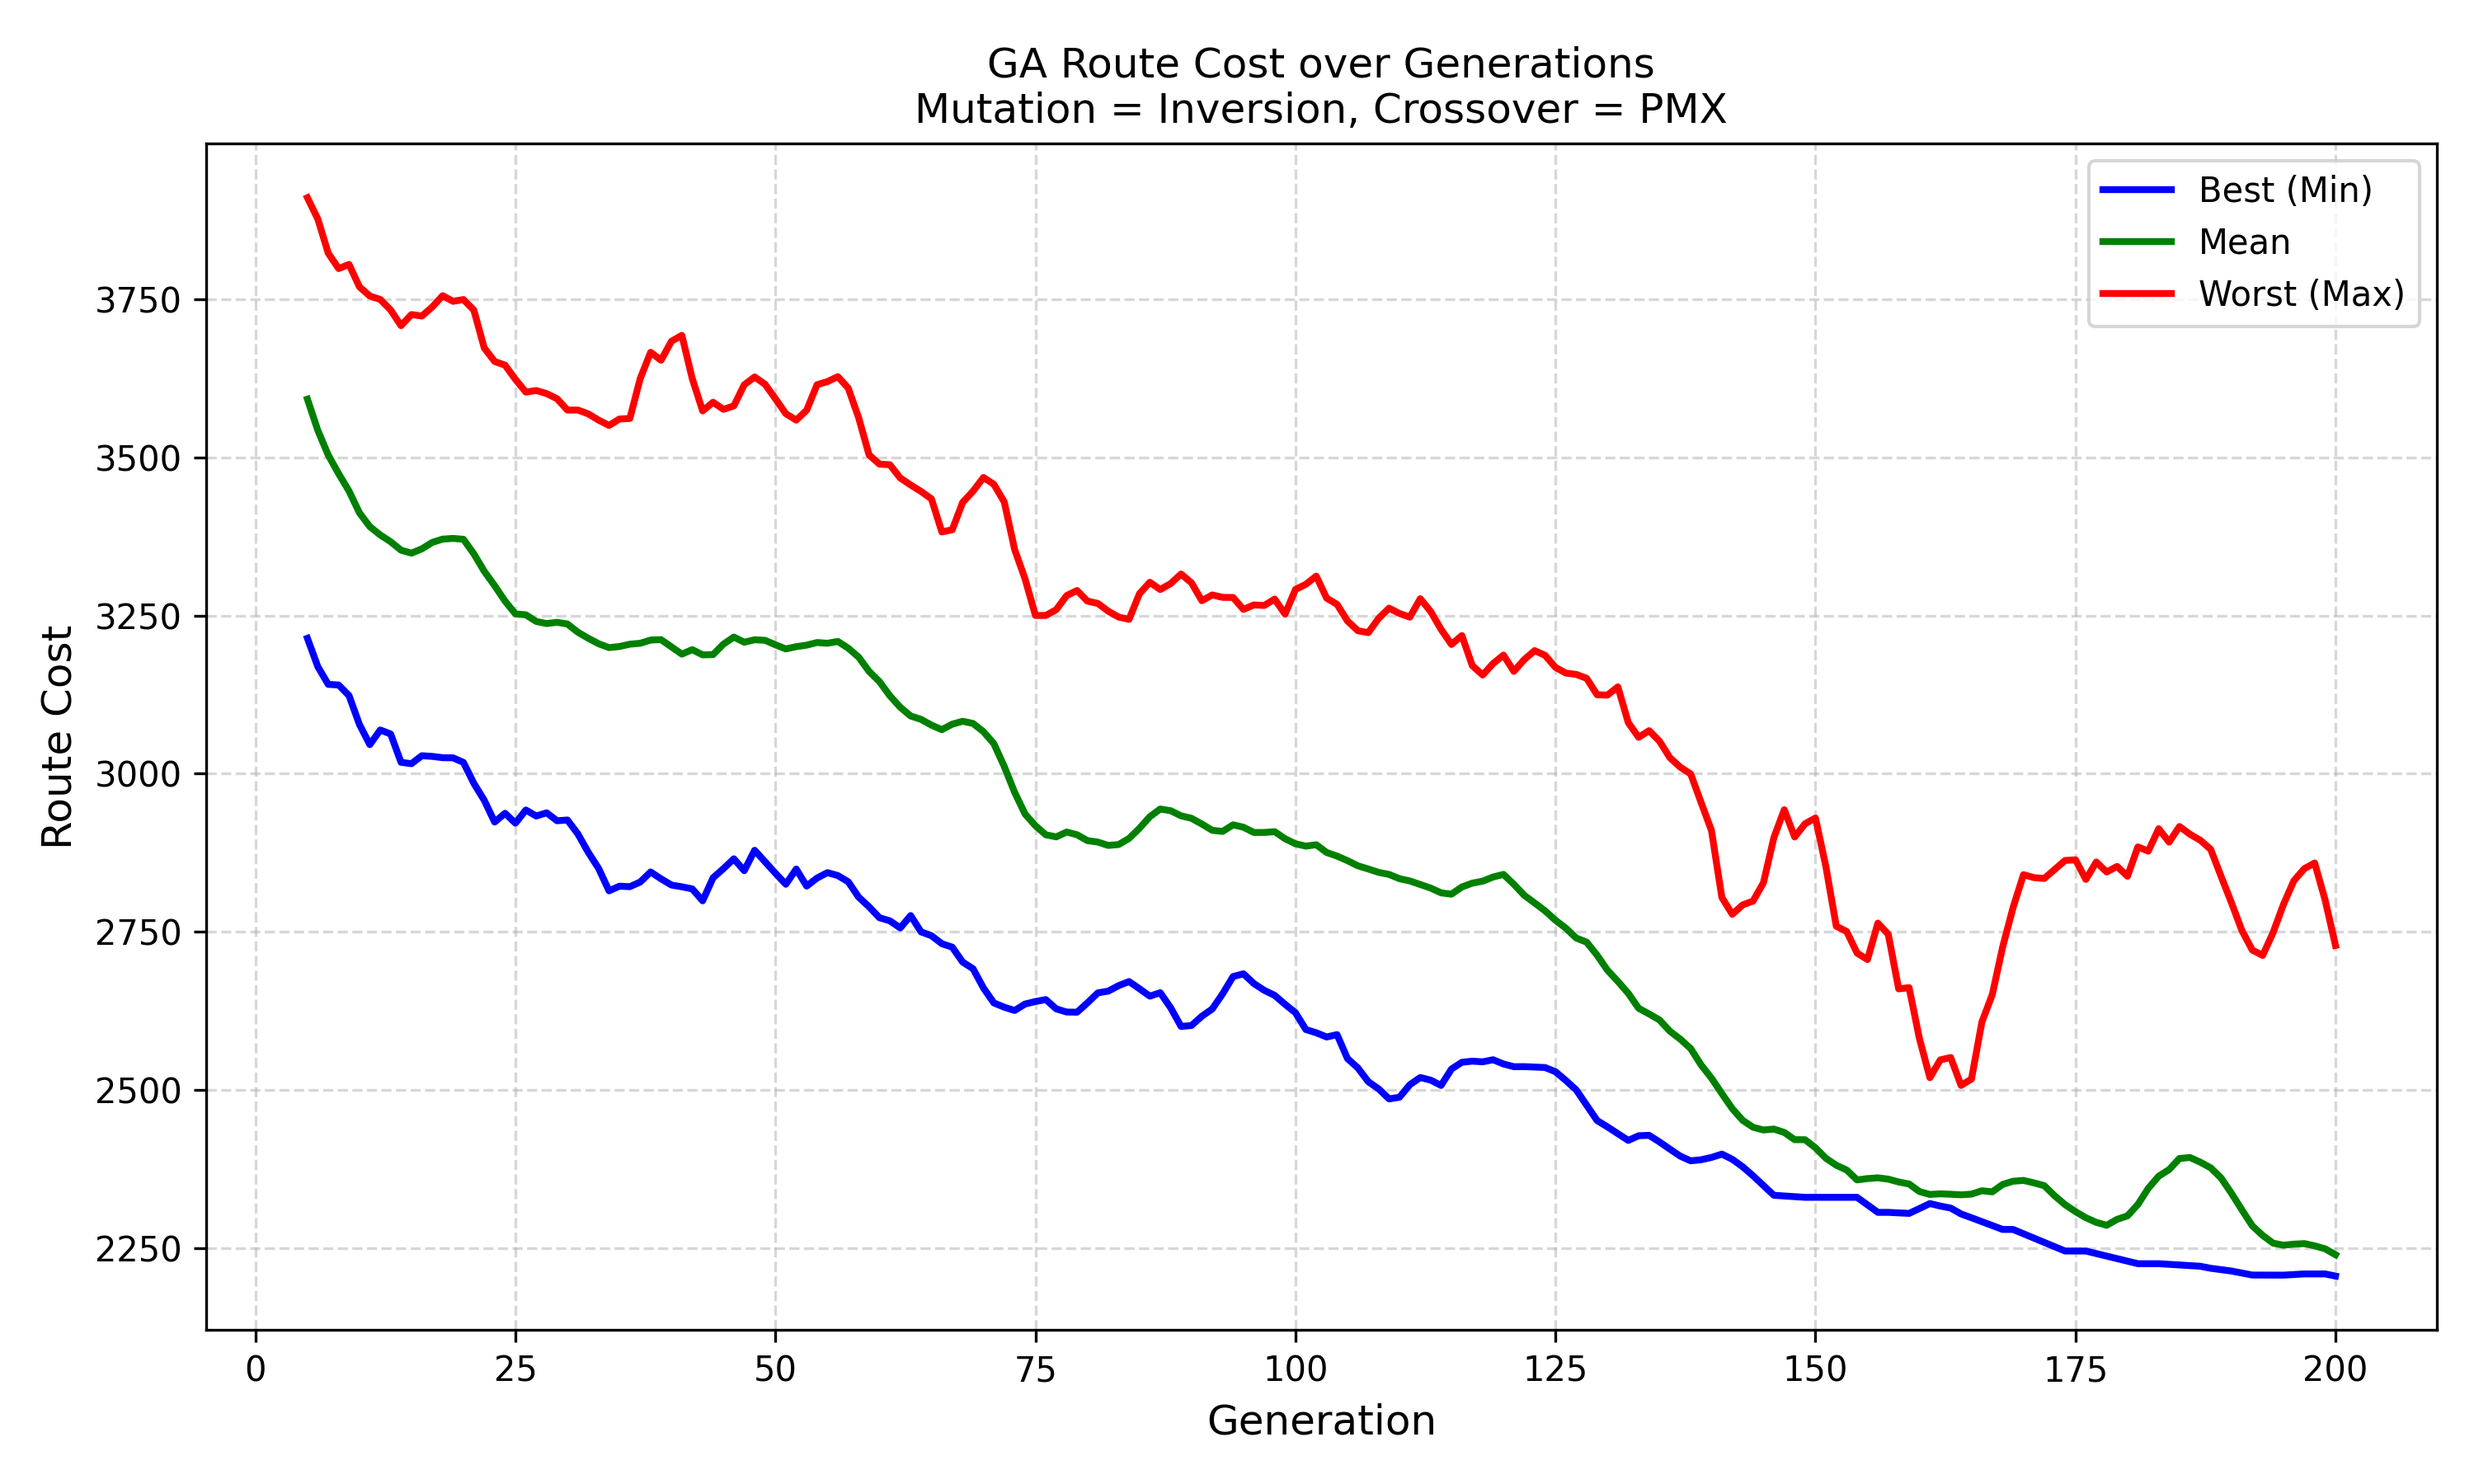
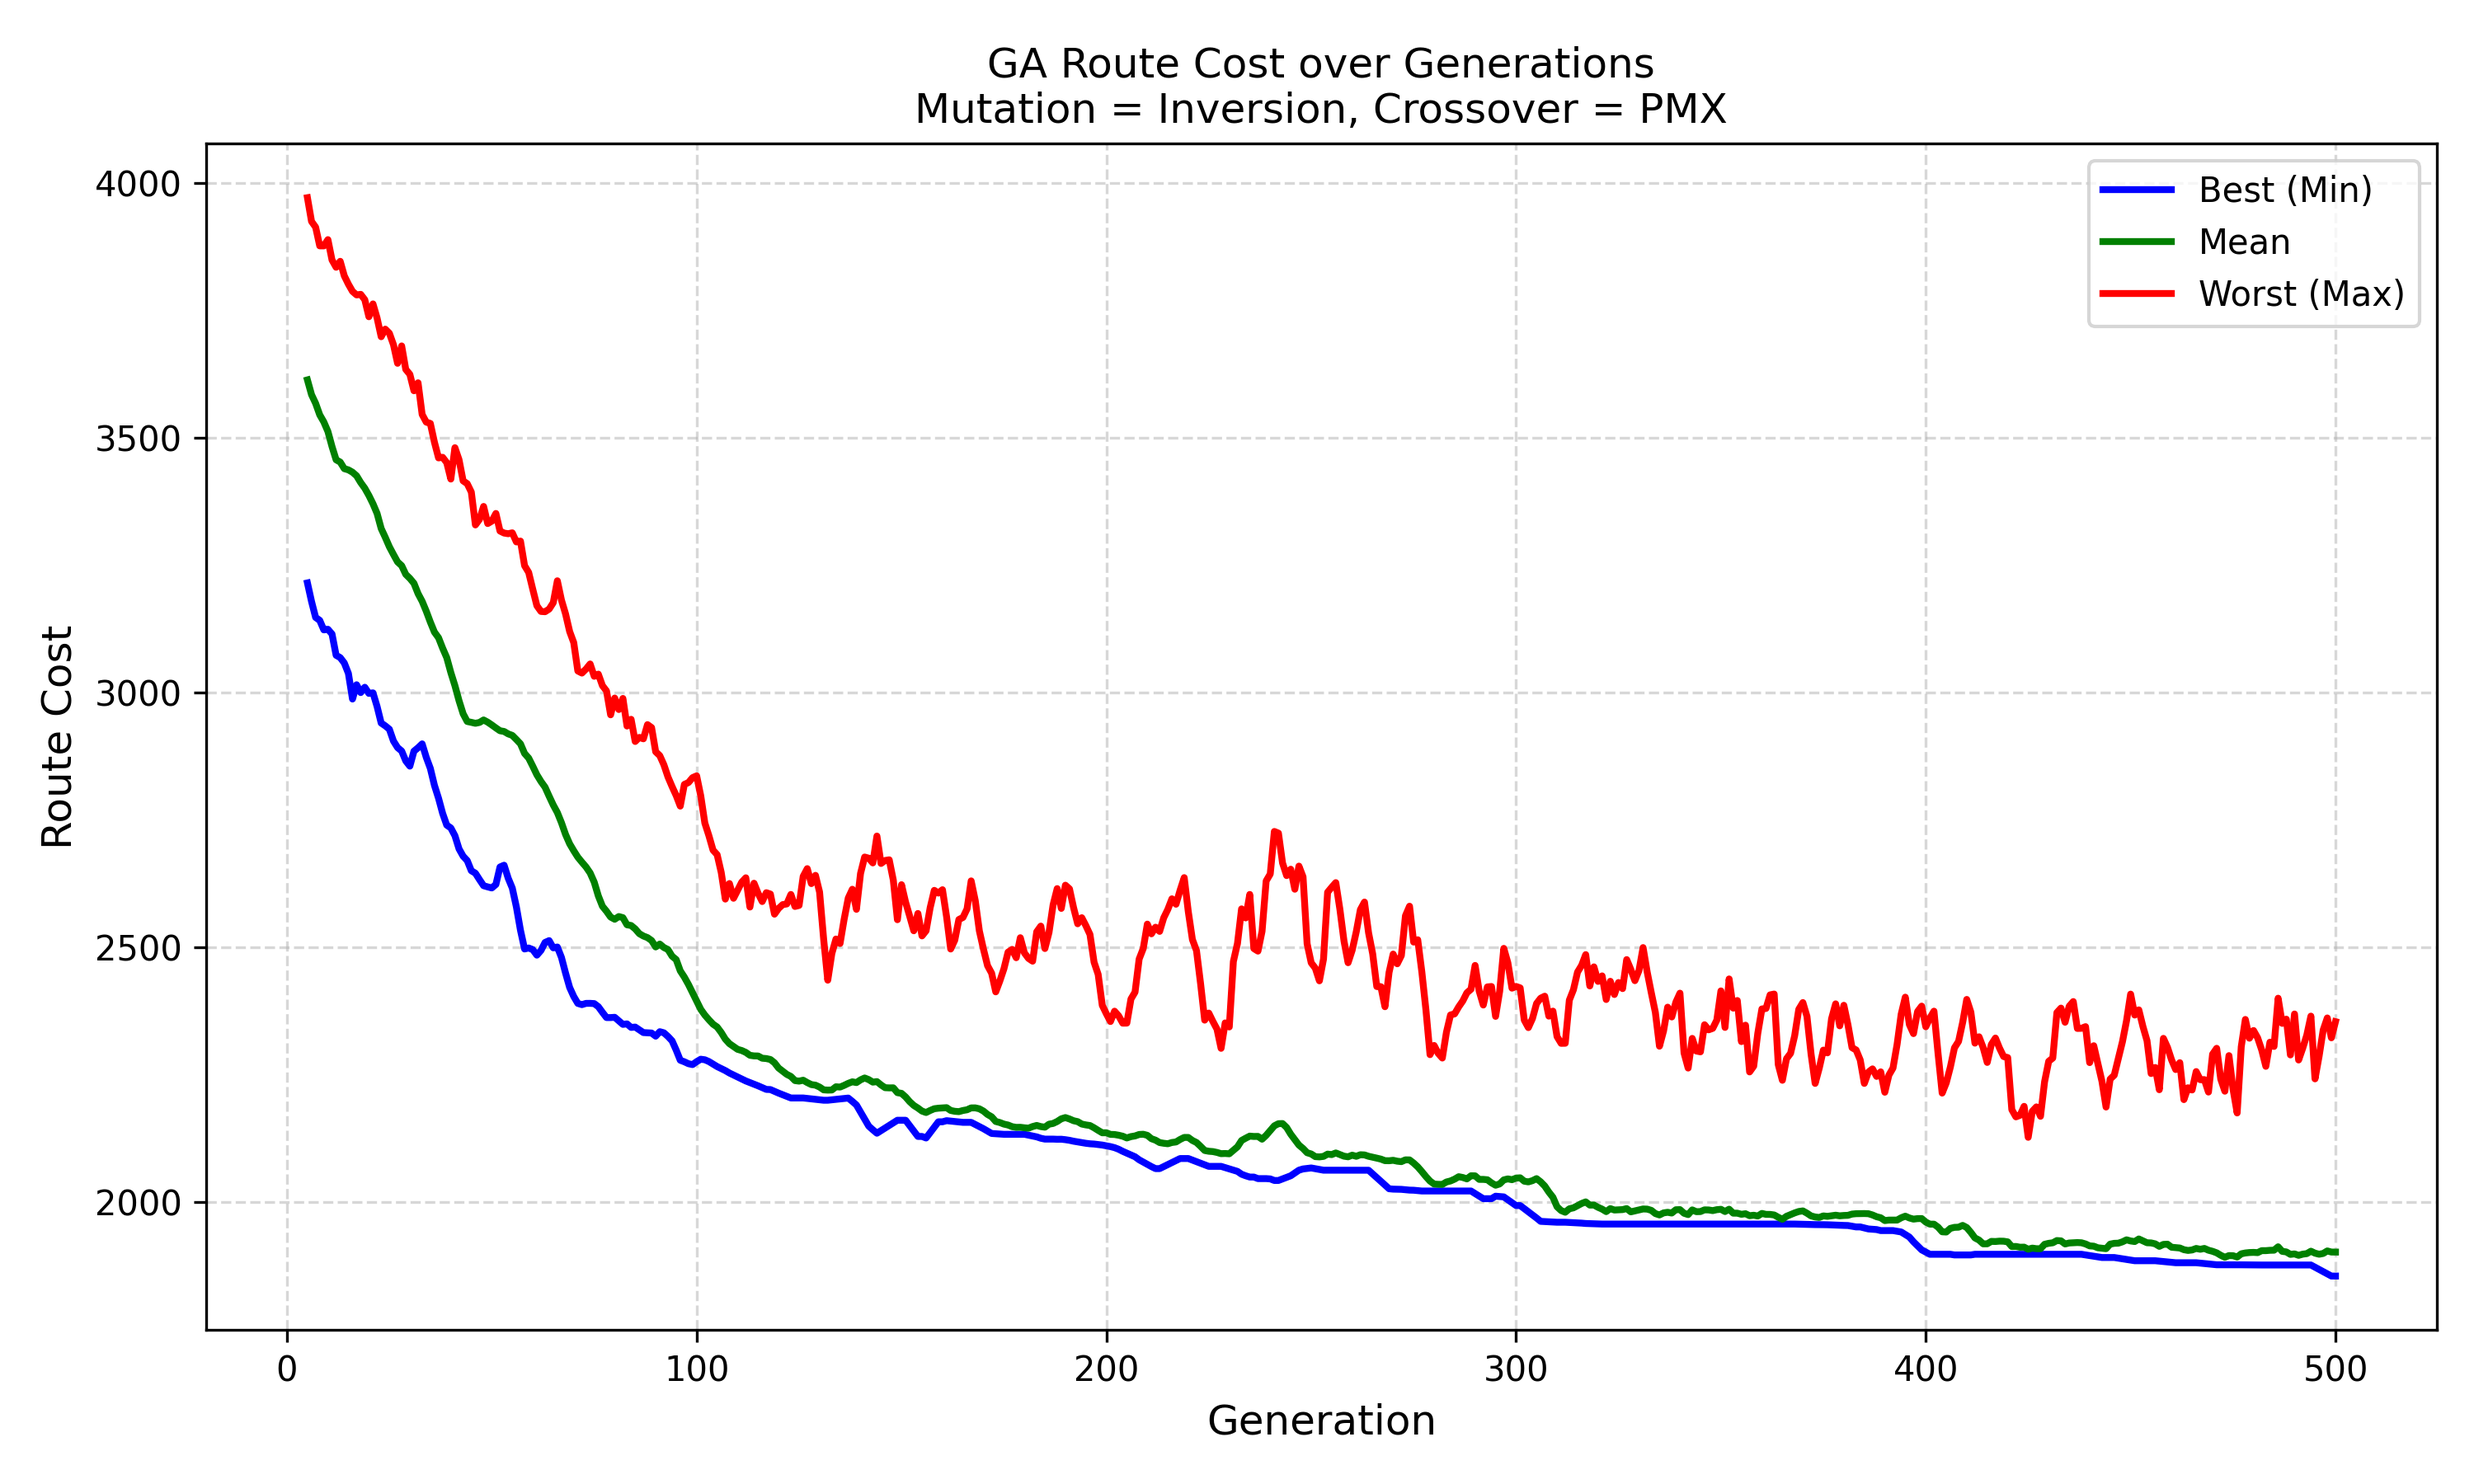
plot changes
plot changes

diff --git a/ga_fitness_plotter.py b/ga_fitness_plotter.py
@@ -18,7 +18,7 @@ configs = [
     {"mutation": "inversion", "crossover": "PMX"},
 ]
 
-generations = 200
+generations = 500
 population_size = 50
 
 for cfg in configs:
